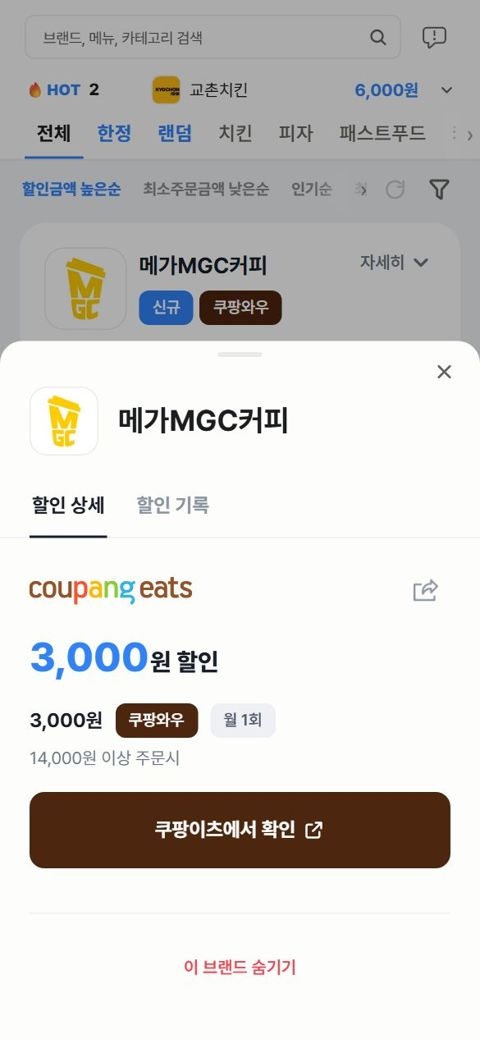
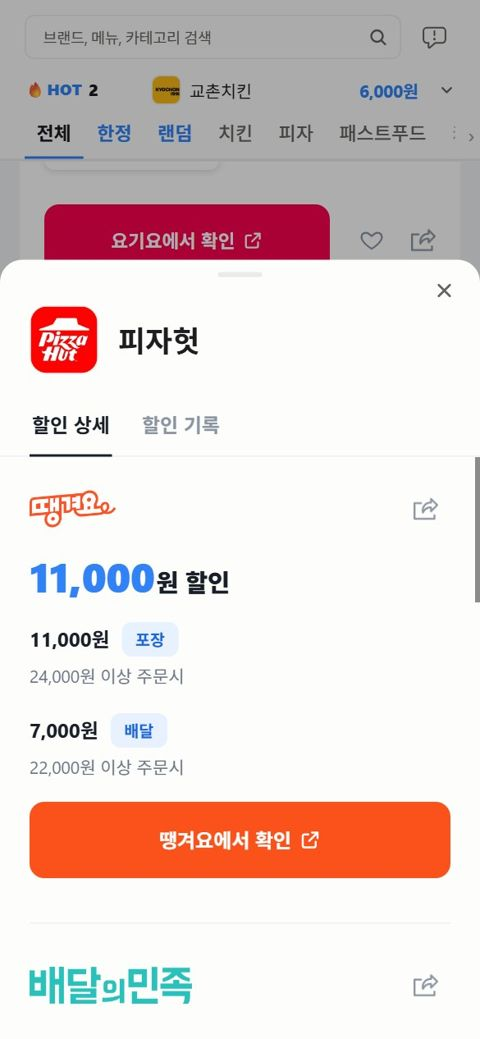
mirror: woowacourse-teams/2026-to-discount@8d94d603c909fe46dfe16ea81342dd817a5f8a7d
이 저장소에 직접 커밋하지 않는다. 원본은 woowacourse-teams/2026-to-discount의 web/ 이고, 여기 직접 넣은 것은 다음 미러에 덮인다.

diff --git a/public/about/index.html b/public/about/index.html
@@ -483,6 +483,7 @@
     // 카테고리 탭 줄의 글자(필터 창 안의 같은 글자와 구분)
     const tab = (n) => (d) => [...d.querySelectorAll('button,[role=tab]')].find((x) => x.innerText.trim() === n && !x.closest('.sheet') && x.getBoundingClientRect().top > 40 && x.getBoundingClientRect().top < 300)
     const chip = (t) => (d) => [...d.querySelectorAll('.sheet .sheet__chip')].find((x) => x.innerText.trim().startsWith(t))
+    const hot = (rank) => (d) => d.querySelectorAll('.pop-dock__row')[rank - 1] // HOT 목록의 n위 줄
     const card = (d, brand) => [...d.querySelectorAll('article.v2-card')].find((x) => x.dataset.brand === brand)
     const nap = (ms) => new Promise((r) => setTimeout(r, ms))
     // 조건이 참이 될 때까지 0.1초마다 본다(최대 ms). 고정 대기보다 빠르다
@@ -517,20 +518,22 @@
         { reveal: true }, { wait: 500 },
         { scroll: 9999, ms: 2600, el: '.v2-sheet__offers' }, { wait: 500 }, { scroll: 0, ms: 1600, el: '.v2-sheet__offers' },
       ],
-      // 3장: 인기 브랜드(HOT)를 펼치고 아래 목록을 내려 본다
+      // 3장: 인기 브랜드(HOT)를 펼쳐 브랜드를 눌러 그 카드로 이동하고, 다시 펼쳐 다른 브랜드로 이동
       hot: [
         { tap: '인기 브랜드 펼치기' }, { wait: 600 },
-        { reveal: true }, { wait: 500 },
-        { scroll: 700, ms: 2200 }, { wait: 500 }, { scroll: 0, ms: 1400 },
+        { reveal: true }, { wait: 1000 },
+        { tap: hot(3) }, { wait: 2500 },
+        { tap: '인기 브랜드 펼치기' }, { wait: 1000 },
+        { tap: hot(1) }, { wait: 2500 },
       ],
-      // 4장: 카테고리 탭을 한정, 랜덤, 치킨, 피자로 바꿔 가며 조금씩 내려 본다
+      // 4장: 카테고리 탭을 한정, 랜덤, 치킨, 피자로 바꿔 가며, 내려 보다가 다음 카테고리로 넘어간다
       category: [
         { tap: tab('한정') }, { wait: 600 },
         { reveal: true }, { wait: 500 },
-        { scroll: 450, ms: 1200 }, { scroll: 0, ms: 900 },
-        { tap: tab('랜덤') }, { wait: 600 }, { scroll: 450, ms: 1200 }, { scroll: 0, ms: 900 },
-        { tap: tab('치킨') }, { wait: 600 }, { scroll: 450, ms: 1200 }, { scroll: 0, ms: 900 },
-        { tap: tab('피자') }, { wait: 600 }, { scroll: 600, ms: 1400 }, { scroll: 0, ms: 1000 },
+        { scroll: 450, ms: 1200 }, { wait: 300 },
+        { tap: tab('랜덤') }, { wait: 600 }, { scroll: 450, ms: 1200 }, { wait: 300 },
+        { tap: tab('치킨') }, { wait: 600 }, { scroll: 450, ms: 1200 }, { wait: 300 },
+        { tap: tab('피자') }, { wait: 600 }, { scroll: 600, ms: 1400 }, { wait: 300 },
       ],
       // 5장: 필터에서 앱, 카테고리, 정렬, 멤버십을 여러 개 고르고 적용한 뒤 결과를 내려 본다
       filter: [
@@ -543,9 +546,9 @@
         { tap: '적용' }, { wait: 900 },
         { scroll: 700, ms: 1800 }, { wait: 400 }, { scroll: 0, ms: 1200 },
       ],
-      // 6장: 자세히를 열어 할인을 보고 할인 기록 탭으로 넘긴다
+      // 6장: 피자헛 자세히를 열어 앱별 할인을 내려 보고 할인 기록 탭으로 넘긴다
       detail: [
-        { tap: (d) => [...d.querySelectorAll('*')].filter((x) => x.children.length < 3 && (x.innerText || '').trim().startsWith('자세히'))[0] }, { wait: 700 },
+        { run: async (d, w) => { const c = await until(() => { w.scrollTo(0, d.documentElement.scrollHeight); return card(d, '피자헛') }, 6000); c.scrollIntoView({ block: 'center' }); await nap(300); c.querySelector('.v2-card__body').click(); await until(() => d.querySelector('.v2-sheet__offers')); await nap(400) } },
         { reveal: true }, { wait: 700 },
         { scroll: 600, ms: 1600, el: '.v2-sheet__offers' }, { wait: 400 }, { scroll: 0, ms: 1000, el: '.v2-sheet__offers' }, { wait: 300 },
         { tap: '할인 기록' }, { wait: 3000 },
